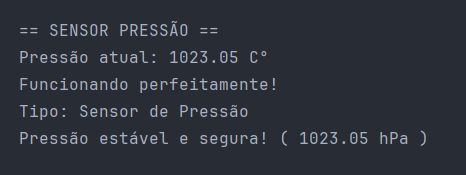
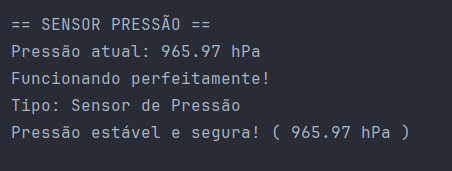
Fix: Correção no sensor de pressão, e na imagem 5

diff --git a/src/br/com/projetoespacial/model/SensorPressao.java b/src/br/com/projetoespacial/model/SensorPressao.java
@@ -10,7 +10,7 @@ public class SensorPressao extends ComponenteEspacial implements Sensor{
 
     @Override
     public void lerValor() {
-        System.out.println("Pressão atual: " + pressao + " C°");
+        System.out.println("Pressão atual: " + pressao + " hPa");
     }
 
     @Override